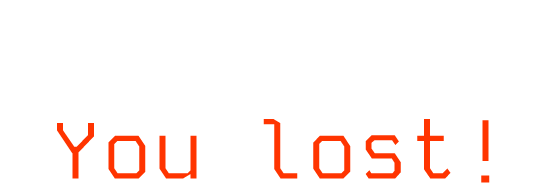
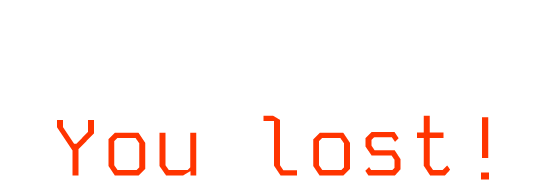
Changed images with wrong font

diff --git a/app/src/main/java/com/example/lightballalliance/MyGLSurfaceView.kt b/app/src/main/java/com/example/lightballalliance/MyGLSurfaceView.kt
@@ -154,16 +154,16 @@ class MyGLRenderer (private val context: Context) : GLSurfaceView.Renderer {
     /**
      * Initialize the end game objects
      */
-    // Original aspect ratio of the images is 2.91:1
-    wonText = TexturedSquareObject(context, aspectRatio / 2.91f, "wonText.png", 0.3f, 0f, 0.2f)
-    // Original aspect ratio of the images is 2.91:1
-    lostText = TexturedSquareObject(context, aspectRatio / 2.91f, "lostText.png", 0.3f, 0f, 0.2f)
-    // Original aspect ratio of the images is 2.91:1
-    tiedText = TexturedSquareObject(context, aspectRatio / 2.91f, "tiedText.png", 0.3f, 0f, 0.2f)
-    // Original aspect ratio of the images is 3.72:1
-    youDiedText = TexturedSquareObject(context, aspectRatio / 3.72f, "youDiedText.png", 0.22f, 0f, 0.2f)
-    // Original aspect ratio of the images is 4.01:1
-    allyDiedText = TexturedSquareObject(context, aspectRatio / 4.01f, "allyDiedText.png", 0.22f, 0f, 0.2f)
+    // Original aspect ratio of the images is 2.95:1
+    wonText = TexturedSquareObject(context, aspectRatio / 2.95f, "wonText.png", 0.3f, 0f, 0.2f)
+    // Original aspect ratio of the images is 2.95:1
+    lostText = TexturedSquareObject(context, aspectRatio / 2.95f, "lostText.png", 0.3f, 0f, 0.2f)
+    // Original aspect ratio of the images is 2.95:1
+    tiedText = TexturedSquareObject(context, aspectRatio / 2.95f, "tiedText.png", 0.3f, 0f, 0.2f)
+    // Original aspect ratio of the images is 3.79:1
+    youDiedText = TexturedSquareObject(context, aspectRatio / 3.79f, "youDiedText.png", 0.22f, 0f, 0.2f)
+    // Original aspect ratio of the images is 4.05:1
+    allyDiedText = TexturedSquareObject(context, aspectRatio / 4.05f, "allyDiedText.png", 0.22f, 0f, 0.2f)
     // Original aspect ratio of the images is 3.6:1
     allyDisconnectedText = TexturedSquareObject(context, aspectRatio / 3.6f, "allyDisconnectedText.png", 0.22f, 0f, 0.2f)
     // Original aspect ratio of the images is 10.69:1
